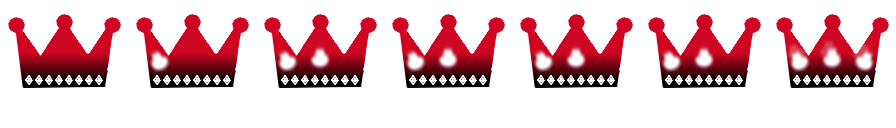
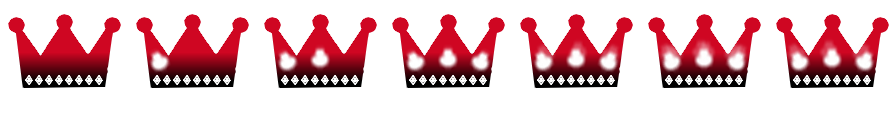
タイトル：タイトル画面改修

Changed region(s): [[0.7188, 0.3125, 0.8438, 0.5625], [0.5938, 0.3125, 0.6875, 0.5625], [0.5, 0.4062, 0.5625, 0.5625]]

diff --git a/Script/System/Game/Title/TitleCrown.py b/Script/System/Game/Title/TitleCrown.py
@@ -10,10 +10,14 @@ from ...Util.CommandUtil import CommandUtil
 from ...Util.Define import Define
 
 TITLE_CROWN_IMAGE_PATH = "Resource/Image/Title/Title_Icon.png"
-TITLE_CROWN_START_POS = (128 * 7 / 2, -200)
-TITLE_CROWN_END_POS = (128 * 7 / 2, 480)
+TITLE_CROWN_START_POS = (900, -200)
+TITLE_CROWN_END_POS = (900, 420)
 
 class TitleCrown(GameObject):
+    IMAGE_SIZE = 128.0
+    IMAGE_NUM_MAX = 6 # ０からの計算
+    IMAGE_NUM_LOOP_START = 4
+
     class TitleCrownState(Enum):
         Init = 0,
         Move = 1,
@@ -21,22 +25,35 @@ class TitleCrown(GameObject):
         LoopAnim = 3
 
     def __init__(self) -> None:
-        super().__init__(image=PgLib.LoadImage(TITLE_CROWN_IMAGE_PATH), position=TITLE_CROWN_START_POS)
+        super().__init__(image=PgLib.LoadImage(TITLE_CROWN_IMAGE_PATH), position=TITLE_CROWN_START_POS, size=(128,128))
+        self.imageNum = 0
+        self.timer = 0
         self.state = TitleCrown.TitleCrownState.Init
 
     def Update(self):
         if self.state == TitleCrown.TitleCrownState.Init:
             CommandUtil.AddMoveCommand(MoveCommand.MoveType.NormalToPosition, self, Define.Position(TITLE_CROWN_END_POS[0], TITLE_CROWN_END_POS[1]), 16)
             self.state = TitleCrown.TitleCrownState.Move
-            return
         elif self.state == TitleCrown.TitleCrownState.Move:
             if self.GetPos().y == TITLE_CROWN_END_POS[1]:
                 self.state = TitleCrown.TitleCrownState.Anim
-            return
         elif self.state == TitleCrown.TitleCrownState.Anim:
-            self.state = TitleCrown.TitleCrownState.LoopAnim
-            return
+            self.timer += 1
+            if self.timer % 6 == 0:
+                self.imageNum += 1
+            if self.imageNum >= TitleCrown.IMAGE_NUM_LOOP_START:
+                self.state = TitleCrown.TitleCrownState.LoopAnim
         elif self.state == TitleCrown.TitleCrownState.LoopAnim:
-            return
+            self.timer += 1
+            if self.timer % 3 == 0:
+                self.imageNum += 1
+            if self.imageNum > TitleCrown.IMAGE_NUM_MAX:
+                self.imageNum = TitleCrown.IMAGE_NUM_LOOP_START
+
+        
                 
 
+    def Draw(self):
+        pos = self.GetPos()
+        size = self.GetSize()
+        PgLib.DrawImageSplit(self.GetImage(), (pos.x, pos.y, size.width, size.height), (self.imageNum * TitleCrown.IMAGE_SIZE, 0, TitleCrown.IMAGE_SIZE, TitleCrown.IMAGE_SIZE))

diff --git a/Script/System/Util/PgLib.py b/Script/System/Util/PgLib.py
@@ -80,7 +80,16 @@ class PgLibImpl(Singleton):
         imageSize = drawImage.get_rect().size
 
         # 画像の描画
-        self.screen.blit(drawImage, (x, y, imageSize[0], imageSize[1]))
+        self.screen.blit(drawImage, (x - width / 2, y - height / 2, imageSize[0], imageSize[1]))
+
+    # 画像を分割描画
+    def DrawImageSplit(self, image : pygame.surface, rect : tuple[float, float, float, float], imageRect : tuple[float, float, float, float]):
+        # 中心座標からの表示にする
+        x = rect[0] - rect[2] * 0.5
+        y = rect[1] - rect[3] * 0.5
+
+        # 画像の描画
+        self.screen.blit(image, (x, y, rect[2], rect[3]), imageRect)
 
     # 画像をスクリーンの中心に表示
     def DrawImageCenter(self, image : pygame.surface, width : int = 0, height : int = 0):
@@ -179,17 +188,22 @@ class PgLib:
     # 円形を描画
     @staticmethod
     def DrawCircle(color : pygame.color.Color, x : float, y : float, size : float):
-        return PgLib.GetInstance().DrawCircle(color, x, y, size)
+        PgLib.GetInstance().DrawCircle(color, x, y, size)
 
     # 楕円形を描画
     @staticmethod
     def DrawEllipse(color : pygame.color.Color, x : int, y : int, width : int, height : int):
-        return PgLib.GetInstance().DrawEllipse(color, x, y, width, height)
+        PgLib.GetInstance().DrawEllipse(color, x, y, width, height)
 
     # 画像を描画
     @staticmethod
     def DrawImage(image : pygame.surface, x : float, y : float, width : float, height : float):
-        return PgLib.GetInstance().DrawImage(image, x - width / 2, y - height / 2, width, height)
+        PgLib.GetInstance().DrawImage(image, x, y, width, height)
+
+    # 画像を分割描画
+    @staticmethod
+    def DrawImageSplit(image : pygame.surface, rect : tuple[float, float, float, float], imageRect : tuple[float, float, float, float]):
+        PgLib.GetInstance().DrawImageSplit(image, rect, imageRect)
 
     # 画像をスクリーンの中心に表示
     @staticmethod

diff --git a/Script/System/Game/Title/Title.py b/Script/System/Game/Title/Title.py
@@ -35,7 +35,6 @@ class Title(GameSequenceBase):
         #画像の読み込み
         self.bgImage = PgLib.LoadImage(TITLE_IMAGE_DIRECTORY + TITLE_BG)
         self.Logo = PgLib.LoadImage(TITLE_IMAGE_DIRECTORY + TITLE_LOGO)
-        self.blade = GameObject(size=(128, 128) , image=PgLib.LoadImage(TITLE_IMAGE_DIRECTORY + TITLE_ICON_BLADE), position=(-100, BLADE_ROGO_POS.y))
         self.crown = TitleCrown()
 
         # ステートの初期化
@@ -44,7 +43,6 @@ class Title(GameSequenceBase):
     # 更新処理
     def Update(self) -> bool:
         if self.state == Title.TitleState.Start:
-            #CommandUtil.AddMoveCommand(MoveCommand.MoveType.NormalToPosition, self.blade, BLADE_ROGO_POS, ICON_MOVE_SPEED)
             self.state = Title.TitleState.LogoIn
         elif self.state == Title.TitleState.LogoIn:
             self.crown.Update()
@@ -52,7 +50,6 @@ class Title(GameSequenceBase):
             CommandUtil.Update()
 
             if PgLib.GetInputManager().GetMouse().GetPushClick() != None:
-                self.blade.SetPos(BLADE_ROGO_POS.x , BLADE_ROGO_POS.y)
                 self.state = Title.TitleState.Run
         elif self.state == Title.TitleState.Run:
             self.state = Title.TitleState.End
@@ -65,10 +62,12 @@ class Title(GameSequenceBase):
         screen = PgLib.GetScreen()
         # 背景の描画
         screen.blit(self.bgImage, (0, 0, 1280, 960))
-        # 武器アイコンを表示
-        self.blade.Draw()
-        self.crown.Draw()
+
         # タイトルロゴの描画(中心に配置)
         PgLib.DrawImageCenter(self.Logo)
+
+        # 王冠の描画
+        self.crown.Draw()
+        
 
        
